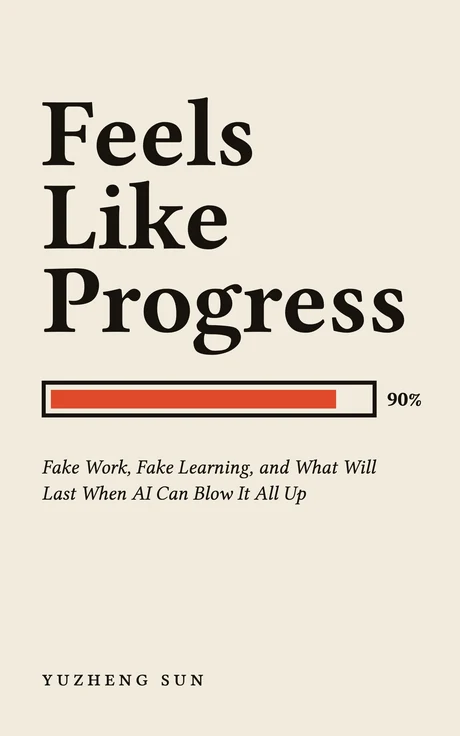
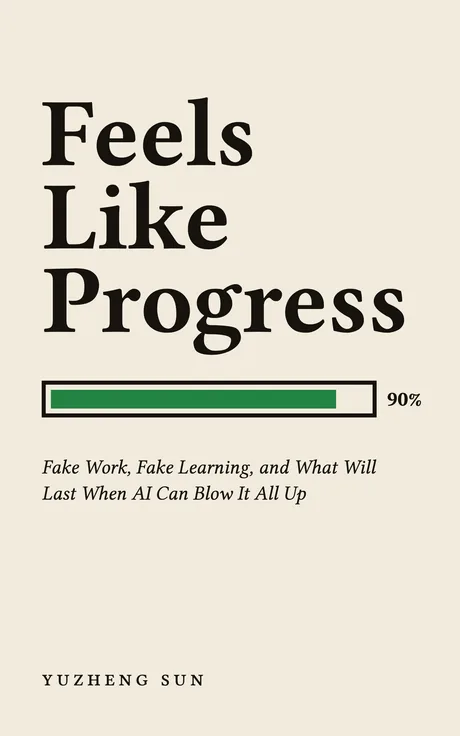
Feels Like Progress: the cover with the green progress bar
Version 11 of the book changed the cover's bar from red to Superlinear's
brand green (#238343). The cover on /book, /en/book and the homepage is
regenerated from the book's ebook cover at 460 x 736. No copy changed.

Changed region(s): [[0.0913, 0.5312, 0.7304, 0.5625]]

diff --git a/CHANGELOG.md b/CHANGELOG.md
@@ -1,5 +1,9 @@
 # 更新记录
 
+## 2026-10-20 《Feels Like Progress》换成绿色进度条的封面
+
+- 书第11版的封面进度条从橙红改成 Superlinear 的品牌绿 `#238343`，书页和首页那张封面（`client/public/home/books/feels-like-progress.webp`，460×736）按书的电子书封面重新生成。文字和按钮没动。书网站 makewhatlasts.com 同一天更新到第11版。
+
 ## 2026-10-18 英文页上《真本事》用英文名 Real Stuff
 
 - 英文书页 `/en/book`、英文首页「书」那张卡、英文关于页，《真本事》都改用英文名 *Real Stuff*，旁边留着灰色的中文名「真本事」。和英文书《Feels Like Progress》里的写法一致（作者介绍写 "*Real Stuff* (真本事)"），英文读者在书里看到的名字，到网站能对上。立正 10-18 同意的。
